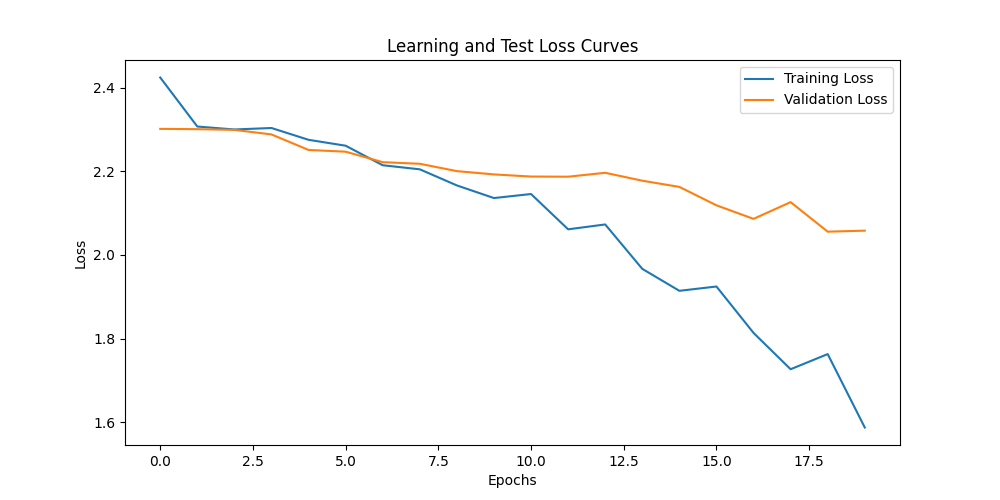
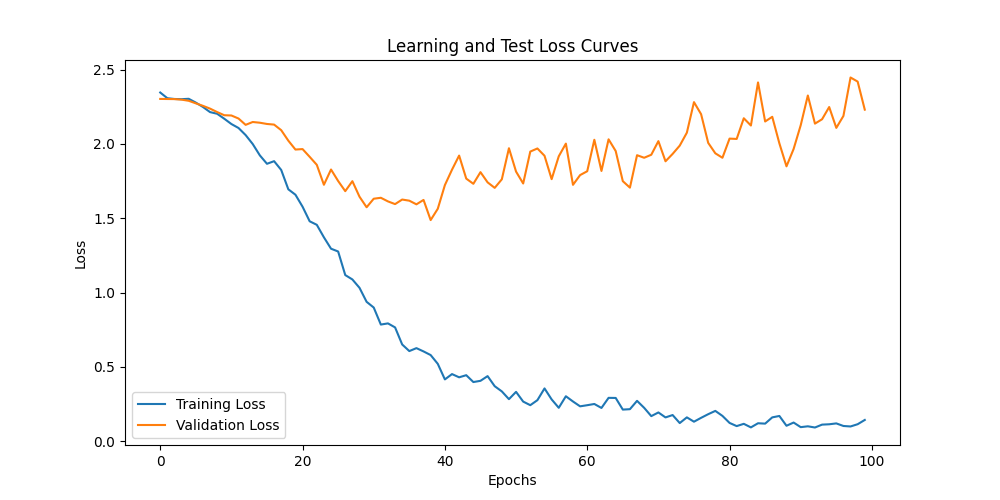
added learning curve plots

diff --git a/train_model.py b/train_model.py
@@ -59,7 +59,7 @@ model = Sequential([
 model.compile(optimizer='adam', loss='categorical_crossentropy', metrics=['accuracy'])
 
 # Trenowanie modelu
-history = model.fit(X_train, y_train, epochs=20, validation_data=(X_val, y_val))
+history = model.fit(X_train, y_train, epochs=100, validation_data=(X_val, y_val))
 
 # Ewaluacja modelu
 val_loss, val_accuracy = model.evaluate(X_val, y_val)
